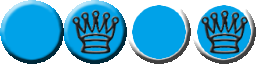
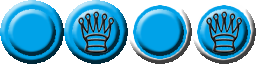
Usada as constantes no método de Instanciar as peças. Trocadas as imagens das peças para parecer mais peças.

diff --git a/src/model/Jogador.java b/src/model/Jogador.java
@@ -6,6 +6,7 @@
 package model;
 
 import java.awt.Point;
+import util.Constantes;
 
 /**
  *
@@ -75,11 +76,11 @@ public class Jogador {
         int lenght = 0;
 
         if (this.sentidoSubindo) {
-            y = 568;
+            y = Constantes.Y_INICIAL_SUBINDO;
 
             //roda apenas 3 vezes para preencher o x
             for (int i = 1; i <= 3; i++) {
-                x = 8;
+                x = Constantes.X_INICIAL_SUBINDO;
 
                 if (i == 2) {
                     x += 80;
@@ -92,19 +93,19 @@ public class Jogador {
                     this.pecas[lenght] = novaPeca;
                     lenght++;
 
-                    x += 160;
+                    x += 2 * Constantes.DESLOCAMENTO_ANDAR;
                 }
-                y -= 80;
+                y -= Constantes.DESLOCAMENTO_ANDAR;
             }
         } else {
-            y = 8;
+            y = Constantes.Y_INICIAL_DESCENDO;
 
             //roda apenas 3 vezes para preencher o x
             for (int i = 1; i <= 3; i++) {
-                x = 8;
+                x = Constantes.X_INICIAL_DESCENDO;
 
                 if (i == 1 || i == 3) {
-                    x += 80;
+                    x += Constantes.DESLOCAMENTO_ANDAR;
                 }
 
                 //roda apenas 4 vezes para preencher o y
@@ -114,9 +115,9 @@ public class Jogador {
                     this.pecas[lenght] = novaPeca;
                     lenght++;
 
-                    x += 160;
+                    x += 2 * Constantes.DESLOCAMENTO_ANDAR;
                 }
-                y += 80;
+                y += Constantes.DESLOCAMENTO_ANDAR;
             }
         }
     }

diff --git a/src/model/Peca.java b/src/model/Peca.java
@@ -53,7 +53,7 @@ public class Peca {
                     this.spritePeca.x = this.spritePeca.x + DESLOCAMENTO;
                     this.deselecionaPeca();
                 }
-                if (this.spritePeca.y == Constantes.Y_DAMA_DESCENDO) { //Casa que ele vira dama
+                if (this.spritePeca.y == Constantes.Y_INICIAL_SUBINDO) { //Casa que ele vira dama
                     viraDama();
                 }
             } else {
@@ -65,7 +65,7 @@ public class Peca {
                     this.spritePeca.x = this.spritePeca.x + DESLOCAMENTO;
                     this.deselecionaPeca();
                 }
-                if (this.spritePeca.y == Constantes.Y_DAMA_SUBINDO) {
+                if (this.spritePeca.y == Constantes.Y_INICIAL_DESCENDO) {
                     viraDama();
                 }
             }

diff --git a/src/util/Constantes.java b/src/util/Constantes.java
@@ -13,8 +13,10 @@ public class Constantes {
 
     public static final int DESLOCAMENTO_ANDAR = 80;
     public static final int DESLOCAMENTO_COMER = 160;
-    public static final int Y_DAMA_SUBINDO = 8;
-    public static final int Y_DAMA_DESCENDO = 568;
+    public static final int Y_INICIAL_DESCENDO = 8;
+    public static final int Y_INICIAL_SUBINDO = 568;    
+    public static final int X_INICIAL_SUBINDO = 8;
+    public static final int X_INICIAL_DESCENDO = 8;
     public static final String COR_VERMELHO = "Vermelho";
-
+    
 }
